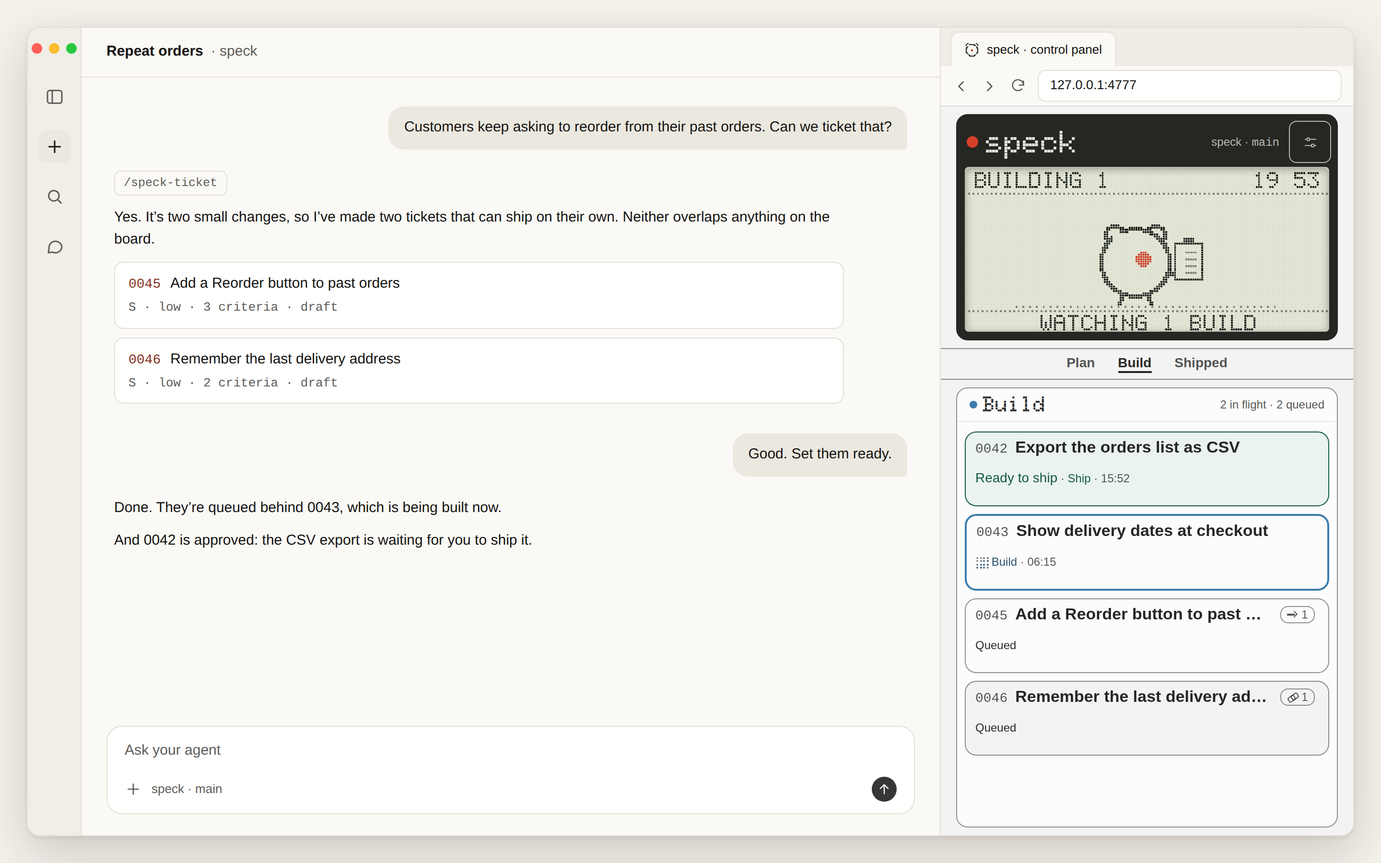
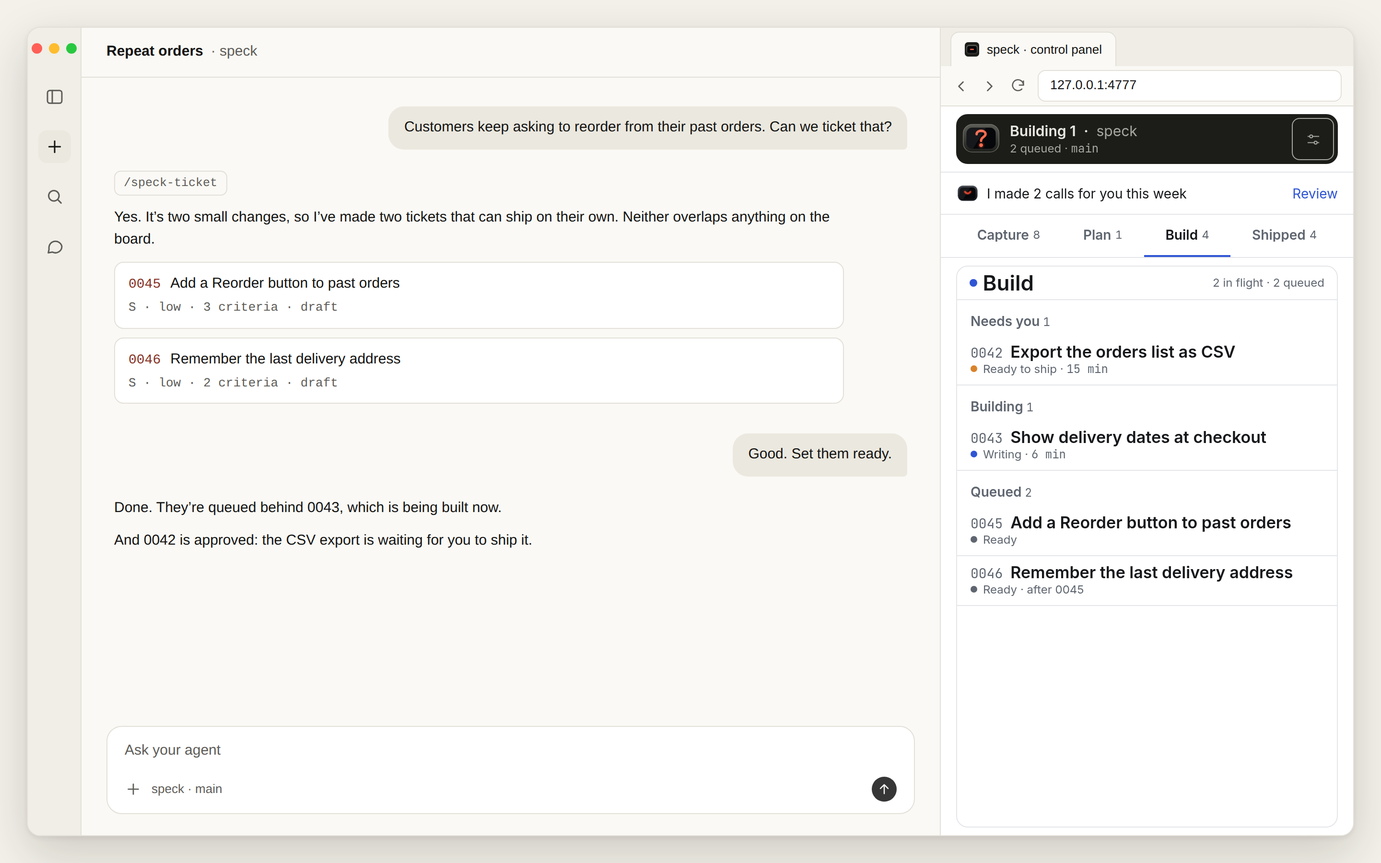
speck(0597): bring the docs and pictures up to date with the new panel

Changed region(s): [[0.6875, 0.1244, 0.9688, 0.7156], [0.6875, 0.7778, 0.9688, 0.8089], [0.6875, 0.0311, 0.7188, 0.0622]]

diff --git a/docs/brief.md b/docs/brief.md
@@ -212,7 +212,7 @@ In a project, `speck` stands for `node .speck/scripts/speck.mjs`, which `init` p
 | `speck split-off <id> "<title>" --from=<file>` | The build's step once `watch: fix` or `decide` has taken the size guard's split for ticket `<id>`: makes a `ready` ticket from the scope in the file (`## Problem`, `## Outcome`, `## Acceptance criteria` and, optionally, `## Out of scope`), with `after:` naming `<id>` and the original's risk, kind, size and priority, says in its Notes where it came from and why, and commits only it on the base branch, using a short-lived checkout of that branch when none has it, as when worktrees are off. It refuses any other ticket and a second split-off for the same ticket, making nothing. |
 | `speck answer <id> "<answer>"`, `speck dismiss <id>` | Your reply to speck's latest question about a ticket, as the panel's Answer and Dismiss buttons give it. An answer is noted in the ticket's Notes as `You answered speck`, committed as `speck(<id>): watch: answer`, and `speck run`'s next check carries it out: it ships an approved ticket `auto_ship` covers again, once, and otherwise resumes the build's own session with your answer, while the ticket is still as it was. An answer `speck run` couldn't carry out is refused. Dismissing notes `You dismissed speck's question`, committed as `speck(<id>): watch: dismiss`, and leaves the ticket as it is. Either clears the question. Each is kept in its own file in `speck/.cache/runs/`, named for the ticket and the time, made only when it isn't there, so a question is answered or dismissed once: a second try says it has already been dealt with. They refuse speck's agent itself, a question that no longer waits (its ticket has moved on, or speck has acted since) and a ticket speck hasn't asked about. The old `speck foreman answer` and `speck foreman dismiss` still work the same. |
 | `speck status [--json]` | Tickets by status, blocked first, after speck's status: what `speck run` is doing, why each ready ticket isn't building and what shipping is waiting for, as `speck run` records them in `speck/.cache/runs/`. `--json` gives everything, for programs such as the panel. |
-| `speck panel [--port <n>] [--url https://<hostname>] [--background]`, `speck panel --stop` | The control panel in your browser, at `http://127.0.0.1:4777`, and with `--url` at that one https address too, for reaching it through a private tunnel. It runs until Ctrl+C. With `--background` it starts on its own, detached from the terminal, so it keeps running after the shell that started it has ended: it prints the address once the panel answers there and writes the panel's output to `speck/.cache/panel.log`. If this repo's panel already answers on that port, it starts nothing and prints the addresses that panel serves, saying so when its `--url` differs from the one given. `speck panel --stop` stops the panel started that way, or every one when started on several ports (`--port <n>` for just one), or says none is running. The panel shows Capture (every idea and inbox note, newest captured first by the date on its `Captured:` line, and notes from the same day by the time after that date, latest first, each opening to its whole text, and each with a star: pressing it marks a note you like by adding a `Starred: yes` line straight after its `Captured:` line, or takes the mark off by removing that line, with no commit and without moving the note. The star is the only thing Capture changes, as notes are kept up in chat), Plan (only draft tickets, with Set ready and priority), Build (the queue, with Back to Plan on a ticket waiting there to make it a draft again, live logs, each with a Full log button that opens it in a pop-up like the Pipeline log's, showing only that ticket's build log, stop, which builds are paused, with the `speck play <id>` that carries each on, blocked questions, with a Go with the recommendation button on one whose build said what it recommends and was started by `speck run`, which asks first, records your choice and the time in the ticket's Notes, sets it building and has `speck run` resume the build's own session with it, an approved ticket's review pack, with a Ship button that asks first, then runs `speck ship <id>` and shows its message if it refuses, and "Shipping" with how long it has been running on a ticket being shipped from anywhere, or "Auto-ship didn't finish" with speck ship's message when a build's auto-ship ended without shipping) and Shipped (what's shipped, with times, review rounds, tokens and each ticket's review pack). The top of the panel is speck's LCD screen in its dark frame, which stays there while a lane's list scrolls. The frame's title row shows speck's name in its dot-matrix lettering, the project and base branch, cut short with an ellipsis when there isn't room and shown in full in their tooltip, and the Settings button. The screen's top row shows speck's status, `speck run`'s one status for the whole pipeline: Off, Idle, Building <n>, Shipping <id>, Waiting with its reason, or Needs you <n> for blocked tickets, when the frame's edge turns the needs-you colour. At its right is the time on your computer, `HH:MM` in the 24-hour clock, its colon blinking once a second, or staying still with reduced motion. Below it speck itself, the one watching, shows the pipeline, with a short caption under it: it plays an animation once when a ticket starts shipping, ships, is blocked, or is approved and waits for you to ship it, and when speck asks you something or starts looking into a ticket, one after another when several happen at once. While draft tickets are being written it sits at its laptop. Otherwise it follows its status word, and after 15 minutes of Idle it naps until something happens. Pressing the screen opens the Pipeline log pop-up, which shows `speck run`'s log and nothing else. When the panel is running newer code than the page shows, it says so above the log and offers to reload the page. The Settings view's Auto-build switch turns `speck run` on or off: on starts `speck run` in the background, writing its output to `speck/.cache/runs/run.log`, and it keeps running after the panel stops; off stops it as Ctrl+C does, leaving running builds to carry on. If `speck run` refuses to start, the panel shows its message. The Your engineering manager group under it has `speck_name` and `watch`, which can be changed there, `watch` being one of `off`, `tell` (the default), `fix` or `decide`. With `watch: fix`, each of `speck run`'s checks takes the recommendation of a blocked ticket whose question says that no option changes what you'd notice and that the recommendation is a clear winner, or, on a block by the size guard, whose recommendation is to split, as the Go with the recommendation button does, noting in the ticket's Notes that speck chose it, and resumes its build in the same check. It does so once per ticket: a ticket that blocks again, and any question with a fact unknown, waits for you. With `watch: decide`, speck does everything `fix` does, and each of those checks takes the recommendation of every blocked ticket whose question has one, whatever its "Changes what you'd notice" and "Clear winner" lines say, noting in the ticket's Notes that speck chose it as watch is decide, and resumes its build. A size guard's recommendation to raise the limit is still never taken. A ticket waits for you when its question has no recommendation, when its risk is high, or once speck has taken 3 recommendations for it. With `tell` or `off`, every blocked ticket waits for you, and with `off` speck's status doesn't count them under Needs you. With `fix` or `decide`, each blocked ticket's card says whether speck will take its recommendation, which then doesn't count under Needs you, or it's waiting for you, and a ticket whose build carries on with a recommendation says who went with it, speck or you with the button, the option and the time, until it's approved or no longer building or reviewing. `speck status` says when `watch` is `fix` or `decide` and lists the recommendations speck took in the last 24 hours. With `fix` or `decide`, `speck run` also starts speck's agent when a ship is refused for a reason it doesn't hand back to the build, or a build ends with its ticket neither approved nor blocked, at most one at a time and once per ticket for the same commits (the agent's own note commits don't count). While the agent's latest action on a ticket is a question you haven't answered or dismissed and the ticket's status hasn't changed, it doesn't start for that ticket again, even after new commits. Its brief names the ticket, what happened, the last lines of its log and what it may do; it follows the agent-only `speck-watch` skill and takes one action with `speck watch`. A build still running at more than twice the median build time of the last 20 shipped tickets, and for at least 20 minutes, gets the same once per build, unless it's paused: the agent's brief also gives how long it has run, the median and the machine's load average, and it can only make a draft fix ticket when the base branch is broken or tell you what it found. With `watch: tell`, `speck run` says so once in its log, with the same figures, and starts no agent. With `off` it does neither. The group also has `watch_agent`, `watch_model` and `watch_effort`, which can be changed there: the agent it runs on (`claude`, `codex` or `cursor`, blank for the builder when that's Codex or Cursor and Claude Code otherwise), its model and its effort, blank for the agent's own defaults. `speck status` lists what the agent is looking into, its questions for you, which count under Needs you until the ticket's status changes or you answer or dismiss them, and its last five actions with why. Each question shows on its ticket's card with an Answer box and Answer and Dismiss buttons, which do what `speck answer` and `speck dismiss` do and show the server's message if it refuses. The Settings button opens a view of the settings people tune in `speck/config.yml`, grouped, each with the value speck reads now and a plain explanation of what it does, which ends by saying what speck uses when it isn't set and where a change to it is saved: for your machine only, without a commit, or for the project in `speck/config.yml`, with a commit. It reads them afresh each time it opens. `builder_model`, `reviewer`, `reviewer_model`, `reviewer_effort`, `max_parallel_builds`, `max_parallel_tests`, `limits.max_acceptance_criteria`, `limits.max_changed_lines` and `limits.max_review_rounds` can be changed there. With `reviewer: codex`, `reviewer_model` is a list of the models `codex debug models` lists, read each time the view opens and leaving out those it hides, and `reviewer_effort` offers the efforts the chosen model supports. With `reviewer: claude` or `reviewer: claude-subagent`, `reviewer_model` is a list of `fable`, `opus`, `sonnet` and `haiku`, each saying it means the newest model of that kind, and `reviewer_effort` offers `low` to `max`. With `reviewer: cursor`, `reviewer_model` is a list of the models `agent models` lists, each with its display name, and `reviewer_effort` offers `low` to `max`. `builder_model` offers `fable`, `opus`, `sonnet` and `haiku` with `builder: claude`, the models `codex debug models` lists with `builder: codex`, and a box to type in for any other builder. `watch_model` offers the models of the agent speck runs on in the same way: `fable`, `opus`, `sonnet` and `haiku` for `claude`, the models `codex debug models` lists for `codex` and those `agent models` lists for `cursor`, or a box to type in, with one line saying why, when they can't be read. A saved model or effort that isn't in the list still shows, marked "not offered". Choosing another agent for the reviewer, the builder or speck offers its models straight away, before you save: the model setting says in one line while they're being read, and becomes a box to type in, saying why, when they can't be. A model already chosen that the new list doesn't offer still shows, marked "not offered". When Codex or Cursor can't list its models (it isn't installed or signed in, or the command fails or takes more than 10 seconds), and for any other reviewer, `reviewer_model` is a box to type in and `reviewer_effort` offers `low` to `max`, with one line saying why there's no list. One Save button, kept at the bottom of the view however far it's scrolled, saves every setting you've changed at once, and can be pressed only while a value differs from the saved one. It checks each value as `speck config set` does, and that a reviewer is one speck knows and, when it's from the builder's own family, runs a different model from `builder_model` unless `allow_same_model_review` is true. Your own settings are saved for this machine, as `speck config set --machine` saves them, committing nothing, so they're saved even off the base branch or with `speck/config.yml` changed. It refuses changes to the rest while the panel's checkout isn't on the base branch or `speck/config.yml` has uncommitted changes, and otherwise rewrites only those settings' lines and commits only `speck/config.yml` on the base branch, in one commit. If any change is refused, nothing is saved: the view says which setting was refused and why, keeping your changes so you can fix them. After a save it shows the values as speck now reads them. Closing the view with changes not saved, with its Close button, Escape or a click outside it, first asks whether to save them, discard them or keep editing. So can `auto_ship`, on or off, and `auto_ship_risk`, with a box to tick for each risk. A change that lets more tickets ship by themselves (turning `auto_ship` on, or adding a risk while it's on) first opens a dialog on Save naming which approved tickets would then merge and push to the base branch without waiting for you, and nothing is saved unless you confirm. Turning it off or removing a risk needs no dialog, and unticking every risk is refused, saying to turn `auto_ship` off instead. When this machine has its own value for one of your own settings, its explanation says so, shows the project's value and offers to clear this machine's, on Save, after which the project's applies again. The rest stay read-only. To use it from a phone, put it behind a private tunnel that makes you log in, such as `tailscale serve` or Cloudflare Tunnel with Cloudflare Access, and start it with `speck panel --url https://<hostname>`, that tunnel's address. Never expose it openly: anyone who can load the page can start builds and ship. It can be added to a phone's home screen as an app called speck, which opens full screen. It restarts itself when its code changes. |
+| `speck panel [--port <n>] [--url https://<hostname>] [--background]`, `speck panel --stop` | The control panel in your browser, at `http://127.0.0.1:4777`, and with `--url` at that one https address too, for reaching it through a private tunnel. It runs until Ctrl+C. With `--background` it starts on its own, detached from the terminal, so it keeps running after the shell that started it has ended: it prints the address once the panel answers there and writes the panel's output to `speck/.cache/panel.log`. If this repo's panel already answers on that port, it starts nothing and prints the addresses that panel serves, saying so when its `--url` differs from the one given. `speck panel --stop` stops the panel started that way, or every one when started on several ports (`--port <n>` for just one), or says none is running. The panel shows Capture (every idea and inbox note, newest captured first by the date on its `Captured:` line, and notes from the same day by the time after that date, latest first, each a compact row with its title, a line saying where it came from and when, and a star. Pressing the row opens its whole text, and pressing the star marks a note you like by adding a `Starred: yes` line straight after its `Captured:` line, or takes the mark off by removing that line, with no commit and without moving the note. The star is the only thing Capture changes, as notes are kept up in chat), Plan (only draft tickets, each a compact row with its id, its title and a line with its priority, size and risk, and with Set ready and priority on the row), Build (the queue, as compact rows under Needs you, Building and Queued, each group with its count and left out when empty, and each row its id, its title and one line saying where it is, with a small dot: orange when it needs you, blue while it's worked on and grey while it waits) and Shipped (three tiles up top, the median build time, the median number of review rounds and the share approved in the first round, then a compact row for each shipped ticket with when it shipped, its review rounds and how long it took, and More stats for the other figures, costs included). An empty Capture or Plan shows speck asleep with one line saying what lands there. The lanes are four tabs under the bar, each with its count, the open one underlined in the accent colour; pressing a tab, swiping, the trackpad and the arrow keys change lane. Pressing a row in Build or Shipped opens the ticket's full view, a pane over the lanes: a back link, its id, a status pill and its title, then a track of four bars, Ready, Built, Reviewed and Ship, its facts in two columns (priority, size, risk, whether it ships by itself and why not, and the builder and reviewer with their models), its outcome, its acceptance criteria with a tick on each one the reviewer passed, and rows that open its review pack and build log. A ticket whose criteria changed since it was set ready has a callout there with speck sheepish, saying what each was and is now and that it won't ship by itself. The full view also holds what a build needs: Back to Plan on a ticket waiting in the queue to make it a draft again, the live log, with a Full log button that opens it in a pop-up showing only that ticket's build log, where it is and for how long, Stop, whether it's paused, with the `speck play <id>` that carries it on, a blocked question, with a Go with the recommendation button on one whose build said what it recommends and was started by `speck run`, which asks first, records your choice and the time in the ticket's Notes, sets it building and has `speck run` resume the build's own session with it, and "Auto-ship didn't finish" with speck ship's message when a build's auto-ship ended without shipping. A ticket being shipped from anywhere says "Shipping" with how long it has been running. An approved ticket's full view ends in a bar fixed to the bottom with Ask for changes and, in the accent colour, a Ship button that asks first, then runs `speck ship <id>` and shows its message if it refuses; its review pack has the same two. The top of the panel is the black bar with speck, which stays there while a lane's list scrolls. speck's face is on the left, in the pipeline's mood: asleep while `speck run` is off, asking while anything needs you, focused while something is being worked on and otherwise watching, and pleased for a few seconds after a ticket ships or speck takes a recommendation. Beside it the first line has speck's status, `speck run`'s one status for the whole pipeline: Off, Idle, Building <n>, Shipping <id>, Waiting with its reason, or Needs you <n> for blocked tickets, when the bar's edge turns the needs-you colour, then the project. The second line has how many tickets are queued, how many need you and the base branch. The project and base branch are cut short with an ellipsis when there isn't room and shown in full in their tooltips. The Settings button is at the right of the bar. While speck has made a call for you in the last 7 days, a line under the bar shows speck pleased and says how many, with Review, which opens Decided for you: speck's report, opening with speck beside a short speech bubble, then each call under Today and Earlier with its ticket, the question, Went with and the option, Not chosen and the others, and when. One that changed a criterion shows speck sheepish, saying so and that the ticket waits for you at Ship, and Change opens the review pack of a ticket still waiting to ship. Pressing the bar opens the Pipeline log, a full view of `speck run`'s log and nothing else: a back link, the heading, a line with speck in its mood saying whether `speck run` is on, since when and how many build slots are in use, then filters, Everything, Decisions, Ships and Builds, and a row for each line, its time in the mono font, its text, and its details such as its log file or agent under it. The engineering manager's own lines carry speck's face. With two or more speck panels running on this machine, the bar also has the project menu and All projects, which opens the bridge, every project at once: speck in the busiest mood among them, how many are building in all, how many projects are busy and how many things need you, three tiles (shipped this week, the median build time and the spend this week, across all projects), a card under Needs you for each thing that needs you, with its project, ticket id, title and a one-line reason, which opens that ticket in its own project's panel, and a row under Projects for each project, with a dot for its state, its name, what it's doing and what needs you, and its spend this week, which switches to that project. A project whose panel doesn't answer stays listed as Not answering and counts for nothing in the figures. When the panel is running newer code than the page shows, the bar's word becomes Reload page, and the Pipeline log says so above the log and offers to reload the page. The Settings view's Auto-build switch turns `speck run` on or off: on starts `speck run` in the background, writing its output to `speck/.cache/runs/run.log`, and it keeps running after the panel stops; off stops it as Ctrl+C does, leaving running builds to carry on. If `speck run` refuses to start, the panel shows its message. The Your engineering manager group under it has `speck_name` and `watch`, which can be changed there, `watch` being one of `off`, `tell` (the default), `fix` or `decide`. With `watch: fix`, each of `speck run`'s checks takes the recommendation of a blocked ticket whose question says that no option changes what you'd notice and that the recommendation is a clear winner, or, on a block by the size guard, whose recommendation is to split, as the Go with the recommendation button does, noting in the ticket's Notes that speck chose it, and resumes its build in the same check. It does so once per ticket: a ticket that blocks again, and any question with a fact unknown, waits for you. With `watch: decide`, speck does everything `fix` does, and each of those checks takes the recommendation of every blocked ticket whose question has one, whatever its "Changes what you'd notice" and "Clear winner" lines say, noting in the ticket's Notes that speck chose it as watch is decide, and resumes its build. A size guard's recommendation to raise the limit is still never taken. A ticket waits for you when its question has no recommendation, when its risk is high, or once speck has taken 3 recommendations for it. With `tell` or `off`, every blocked ticket waits for you, and with `off` speck's status doesn't count them under Needs you. With `fix` or `decide`, each blocked ticket's full view says whether speck will take its recommendation, which then doesn't count under Needs you, or it's waiting for you, and a ticket whose build carries on with a recommendation says who went with it, speck or you with the button, the option and the time, until it's approved or no longer building or reviewing. `speck status` says when `watch` is `fix` or `decide` and lists the recommendations speck took in the last 24 hours. With `fix` or `decide`, `speck run` also starts speck's agent when a ship is refused for a reason it doesn't hand back to the build, or a build ends with its ticket neither approved nor blocked, at most one at a time and once per ticket for the same commits (the agent's own note commits don't count). While the agent's latest action on a ticket is a question you haven't answered or dismissed and the ticket's status hasn't changed, it doesn't start for that ticket again, even after new commits. Its brief names the ticket, what happened, the last lines of its log and what it may do; it follows the agent-only `speck-watch` skill and takes one action with `speck watch`. A build still running at more than twice the median build time of the last 20 shipped tickets, and for at least 20 minutes, gets the same once per build, unless it's paused: the agent's brief also gives how long it has run, the median and the machine's load average, and it can only make a draft fix ticket when the base branch is broken or tell you what it found. With `watch: tell`, `speck run` says so once in its log, with the same figures, and starts no agent. With `off` it does neither. The group also has `watch_agent`, `watch_model` and `watch_effort`, which can be changed there: the agent it runs on (`claude`, `codex` or `cursor`, blank for the builder when that's Codex or Cursor and Claude Code otherwise), its model and its effort, blank for the agent's own defaults. `speck status` lists what the agent is looking into, its questions for you, which count under Needs you until the ticket's status changes or you answer or dismiss them, and its last five actions with why. Each question shows in its ticket's full view with an Answer box and Answer and Dismiss buttons, which do what `speck answer` and `speck dismiss` do and show the server's message if it refuses. The Settings button opens a view of the settings people tune in `speck/config.yml`, in plain sections, each with a heading and a divider and no card borders, with speck's face, watching, beside `speck_name`, and each setting a row with the value speck reads now and a plain explanation of what it does, which ends by saying what speck uses when it isn't set and where a change to it is saved: for your machine only, without a commit, or for the project in `speck/config.yml`, with a commit. It reads them afresh each time it opens. `builder_model`, `reviewer`, `reviewer_model`, `reviewer_effort`, `max_parallel_builds`, `max_parallel_tests`, `limits.max_acceptance_criteria`, `limits.max_changed_lines` and `limits.max_review_rounds` can be changed there. With `reviewer: codex`, `reviewer_model` is a list of the models `codex debug models` lists, read each time the view opens and leaving out those it hides, and `reviewer_effort` offers the efforts the chosen model supports. With `reviewer: claude` or `reviewer: claude-subagent`, `reviewer_model` is a list of `fable`, `opus`, `sonnet` and `haiku`, each saying it means the newest model of that kind, and `reviewer_effort` offers `low` to `max`. With `reviewer: cursor`, `reviewer_model` is a list of the models `agent models` lists, each with its display name, and `reviewer_effort` offers `low` to `max`. `builder_model` offers `fable`, `opus`, `sonnet` and `haiku` with `builder: claude`, the models `codex debug models` lists with `builder: codex`, and a box to type in for any other builder. `watch_model` offers the models of the agent speck runs on in the same way: `fable`, `opus`, `sonnet` and `haiku` for `claude`, the models `codex debug models` lists for `codex` and those `agent models` lists for `cursor`, or a box to type in, with one line saying why, when they can't be read. A saved model or effort that isn't in the list still shows, marked "not offered". Choosing another agent for the reviewer, the builder or speck offers its models straight away, before you save: the model setting says in one line while they're being read, and becomes a box to type in, saying why, when they can't be. A model already chosen that the new list doesn't offer still shows, marked "not offered". When Codex or Cursor can't list its models (it isn't installed or signed in, or the command fails or takes more than 10 seconds), and for any other reviewer, `reviewer_model` is a box to type in and `reviewer_effort` offers `low` to `max`, with one line saying why there's no list. One Save button in the accent colour, kept at the bottom of the view however far it's scrolled, saves every setting you've changed at once, and can be pressed only while a value differs from the saved one. It checks each value as `speck config set` does, and that a reviewer is one speck knows and, when it's from the builder's own family, runs a different model from `builder_model` unless `allow_same_model_review` is true. Your own settings are saved for this machine, as `speck config set --machine` saves them, committing nothing, so they're saved even off the base branch or with `speck/config.yml` changed. It refuses changes to the rest while the panel's checkout isn't on the base branch or `speck/config.yml` has uncommitted changes, and otherwise rewrites only those settings' lines and commits only `speck/config.yml` on the base branch, in one commit. If any change is refused, nothing is saved: the view says which setting was refused and why, keeping your changes so you can fix them. After a save it shows the values as speck now reads them. Closing the view with changes not saved, with its Close button, Escape or a click outside it, first asks whether to save them, discard them or keep editing. So can `auto_ship`, on or off, and `auto_ship_risk`, with a box to tick for each risk. A change that lets more tickets ship by themselves (turning `auto_ship` on, or adding a risk while it's on) first opens a dialog on Save naming which approved tickets would then merge and push to the base branch without waiting for you, and nothing is saved unless you confirm. Turning it off or removing a risk needs no dialog, and unticking every risk is refused, saying to turn `auto_ship` off instead. When this machine has its own value for one of your own settings, its explanation says so, shows the project's value and offers to clear this machine's, on Save, after which the project's applies again. The rest stay read-only. To use it from a phone, put it behind a private tunnel that makes you log in, such as `tailscale serve` or Cloudflare Tunnel with Cloudflare Access, and start it with `speck panel --url https://<hostname>`, that tunnel's address. Never expose it openly: anyone who can load the page can start builds and ship. It can be added to a phone's home screen as an app called speck, which opens full screen. It restarts itself when its code changes. |
 | `speck run` | Watches for ready tickets committed on the base branch and starts `build_command` for each in turn, highest priority first, skipping any whose `after:` tickets haven't shipped. `max_parallel_builds` sets how many it keeps going at once, 1 unless you change it (see principle 7). A build that was killed is resumed once. A build it didn't start, such as `/speck-build` in a conversation or a build resumed by hand, counts too, and is shown and watched as its own: the speck commands every build runs, such as `speck start`, `speck next` and `speck diffstat`, write the build's own process into the ticket's run record, and a build resumed by hand is also found by the session its command line names. It stops counting once its ticket is no longer `building` or `reviewing`, even if its conversation carries on. A build whose command starts Claude Code (its first word is `claude`, or a path ending in `/claude`) gets `CLAUDE_CODE_DISABLE_BACKGROUND_TASKS=1`, unless `speck run`'s own environment already sets it, so it can't run commands in the background: a builder that ends its turn while a test run or review round is still running in the background ends the build partway, leaving its ticket `building` or `reviewing`. When a build ends, it records the builder's tokens and cost from its log: Claude Code's `stream-json`, Codex's `--json` or Cursor's `stream-json`. A Claude Code build's tokens come from the `modelUsage` of its log's last `result` line, which already includes the sub-agents the build started with the Agent tool. A Codex build's tokens include the sub-agents it started, and the sub-agents they started in turn, each read from its own session file in `~/.codex/sessions/` (or `$CODEX_HOME/sessions/`). It also records the model or models the build ran on, each with its tokens (uncached input, cached input, cache writes and output) and its cost. Codex and Cursor don't report a cost, so theirs is priced from the price table at the model the build's command gives (`-m` for Codex, or else the one its session file records, and `--model` for Cursor), and each Codex sub-agent at the model its own session file records. The build's cost is left unknown rather than $0 when any of those models has no rates, such as Cursor's `auto`. `speck status --json` gives the sum of a ticket's known build costs as its `builder_cost_usd`, and each model its builds ran on, with its tokens and its cost or null, in `builder_models`. It keeps what each run of speck's agent spends the same way, read from the agent's log when the run ends, in `speck/.cache/runs/run.watch-spend.jsonl`, and `speck status --json` gives the sums over a ticket's runs as its `watch_tokens` and `watch_cost_usd`, null for a ticket the agent never looked into. When a build ends, it also counts each Codex session started in the ticket's worktree, however it was started, for example by a Claude Code builder running `codex exec` itself: each session in `~/.codex/sessions/` (or `$CODEX_HOME/sessions/`) whose `cwd` is the worktree or a folder inside it, with the sub-agents it started, counted and priced as a Codex build's are. Each session counts once, and one already counted as the ticket's build, review round or watch agent run, or a sub-agent of one, isn't counted again. It keeps them in `speck/.cache/runs/run.delegated-spend.jsonl`, and `speck status --json` gives their sums as the ticket's `delegated_tokens` and `delegated_cost_usd`, null for a ticket with none. A ticket built with `worktrees` off has no worktree, so none is counted. Its `total_cost_usd` adds the ticket's known builder, reviewer, watch agent and delegated costs, null when none is known, and its `total_tokens` adds their tokens, each round's as it saved them. Its `total_cost_unknown` names each part (`builder`, `reviewer`, `watch` or `delegated`) with a build, round or run that has tokens but no known cost, which the total leaves out, so the panel shows that total as "at least" it. When its own code changes, for example when a ship changes speck itself, it switches to its new code once no ship it started is running, without waiting for builds: while a ship runs, it says once which one it's waiting for and starts no other ship, though new builds may still start. It then carries on in the same terminal or `run.log` on the new code, still on in the panel and still stopped by Ctrl+C. Builds that were running carry on through the switch, without being stopped or started again: the new code counts them towards `max_parallel_builds`, shows them as building and watches each until it ends, then handles its end as it does that of any build it watches but didn't start: a ticket left approved goes to the ship queue, and one left building or reviewing is treated as a build that stopped partway. If the new code can't start, it says why once and carries on with the code it has until the next change. With `--background`, it turns `speck run` on in its own process, as the panel's switch does, with its output added to `speck/.cache/runs/run.log`, and returns once it's watching, printing one line that says it's on. If `speck run` is already running in the repo, it starts nothing and says so; if `speck run` refuses or stops before it's watching, it prints `speck run`'s own message and exits with a non-zero code, leaving nothing running. |
 | `speck pause <id>` / `speck play <id>` / `speck stop <id>` | Hold a build `speck run` started, with every process it started, carry it on, or end it for good and block its ticket, keeping its branch and work. A build stopped before it ran `speck start` has no branch: its ticket is blocked where it is, and `speck start <id>` starts a blocked ticket with no branch as it would a ready one, so `/speck-build <id>` starts it again. Time a build spends paused, like time its ticket spends blocked, is added to the ticket's `waited_seconds` and left out of its build time in the panel. macOS and Linux only. So is the time a build that stopped before finishing leaves its ticket building or reviewing: its timer stops at the build's exit, or at when speck first noticed a killed build had gone, and the stretch until `speck run` resumes it or `speck start <id>` is run for it again is added. So is time the machine spends asleep while `speck run` is on, for each ticket whose build was in hand all through it, rather than blocked, paused, stopped or approved: it's added once, at `speck run`'s first check after waking, measured on Linux from how far the wall clock ran ahead of Node's monotonic clock, which stops while the machine sleeps, and on macOS from the last sleep and wake times macOS records. |
 | `speck pack <id> [--plain]` | Prints the review pack. When a ticket's acceptance criteria aren't the ones it was set ready with, the pack has a Criteria changed part above them, and `--plain` the same part below them, giving each criterion changed, added or removed with the text it was set ready with and the text now. `--plain` prints a short one in plain English for someone who doesn't read code: whether the reviewer approved it, the ticket's Outcome and `## In plain words`, each acceptance criterion with its result, a closer-look warning for a high-risk ticket or a change to sensitive files, and a note when the reviewer could see only the change, not the rest of the code, in any round. The full pack lists any pictures the build took of a visual change, each with what it shows and its file. For a task, it lists each file in the ticket's output folder, with its path from the project root, straight after the summary, starting with the `summary.md` the build writes at the folder's top, when there is one. The panel's review pack opens with a button for each of those files, above Ship, named from inside the output folder, with its path from the project root as its tooltip. Each folder directly inside the output folder is one button, folded at first, saying how many files it holds however deep, which unfolds to a button for each of them when pressed. When the task has a `summary.md` at its folder's top, in any case, its button comes first, labelled Start here, with Ship straight after it and the other files below Ship. A Markdown file shows formatted in a pop-up over the whole panel, which Close or Escape closes, back to the pack, and any other file opens in a new tab. The panel serves only files inside that folder. |

diff --git a/README.md b/README.md
@@ -12,7 +12,7 @@ You don't need to read the code to check the work. Every ticket comes with a one
 
 <picture>
   <source media="(prefers-color-scheme: dark)" srcset="docs/images/demo-dark.png">
-  <img alt="An agent conversation on the left, with speck's panel open beside it in a narrow browser pane on the right. The panel's screen shows one ticket building, and its Build lane is open: one ticket approved and ready to ship, one being built and two queued." src="docs/images/demo-light.png">
+  <img alt="An agent conversation on the left, with speck's panel open beside it in a narrow browser pane on the right. The panel's black bar shows speck and one ticket building, a line under it says speck made two calls this week, and its Build tab is open with compact rows: one ticket that needs you, ready to ship, one being built and two queued." src="docs/images/demo-light.png">
 </picture>
 
 Use the agents you already have: Claude Code, Codex or Cursor, or a model provider you have an API key for, such as DeepSeek. speck doesn't let a model review its own work unless you allow it.
@@ -60,7 +60,7 @@ Once you trust the work, turn on auto-ship, in the panel's Settings or with `spe
 - **speck files its own follow-ups.** When a build spots a bug or a better idea, speck has it save the idea to your inbox, after checking it isn't there already.
 - **Ideas only become tickets in conversation.** Your agent saves an idea when you ask it to, and turns it into tickets only when you talk it through.
 - **speck asks, then moves on.** When a build needs your call, speck has it stop with one plain question and its recommendation, and carries on with the next ticket.
-- **speck shows where everything stands at a glance.** The panel's screen says what speck is doing in a word or two, such as Building, Shipping or Needs you.
+- **speck shows where everything stands at a glance.** The panel's black bar says what speck is doing in a word or two, such as Building, Shipping or Needs you.
 - **speck looks into stops it has no steps for.** With `watch: fix`, when a build or a ship stops for a reason speck doesn't expect, speck has its own agent look into it and do one thing about it, or ask you.
 - **speck sorts out its own merge conflicts.** When `main` has moved on, speck has the build merge it in, keep what both sides meant and have the merge reviewed again.
 - **speck fits in your pocket.** Put the panel behind a private tunnel and add it to your phone's home screen (see [The panel](#the-panel)).
@@ -90,9 +90,12 @@ Inspired by [OpenSpec](https://github.com/Fission-AI/OpenSpec), with less ceremo
 
 The panel is a phone-width column you keep beside your agent, or open on your phone. Start it with `node .speck/scripts/speck.mjs panel`, at `http://127.0.0.1:4777`. The panel runs on your machine and reads the files in your repo.
 
-- **speck's screen**, at the top, says what's happening: Building, Shipping, Idle, or Needs you when a ticket is waiting on your answer. Press it for the detail.
-- **Capture, Plan, Build and Shipped** are cards you swipe between. Capture lists your ideas and inbox notes to read. Plan has your draft tickets. Build has the queue, each build's log, blocked questions and approved tickets' review packs with their Ship button. Shipped shows what's shipped and what it took.
-- **Settings**, from the button in the header, turns `speck run` on and off, picks your builder and reviewer, and holds the settings people tune.
+- **The black bar**, at the top, shows speck and what's happening: Building, Shipping, Idle, or Needs you when a ticket is waiting on you. Press it for the Pipeline log, which you can filter to decisions, ships or builds.
+- **Capture, Plan, Build and Shipped** are tabs you press or swipe between, each a list of compact rows. Capture lists your ideas and inbox notes to read. Plan has your draft tickets. Build groups the queue under Needs you, Building and Queued. Shipped opens with three figures, then what's shipped and what it took.
+- **A ticket's full view** opens when you press its row in Build or Shipped: how far it has got, what it should do, its log, any question for you, its review pack, and its Ship button once it's approved.
+- **Decided for you**, from a line under the bar, is speck's report of the calls it made for you this week, with what it didn't choose. Change any you'd have called differently.
+- **All projects** appears in the bar once two or more projects' panels are running. It opens the bridge: what needs you and how each project is doing, across all of them.
+- **Settings**, from the button in the bar, turns `speck run` on and off, picks your builder and reviewer, and holds the settings people tune.
 
 To use it from your phone, put it behind a private tunnel that makes you log in, such as `tailscale serve` or Cloudflare Tunnel with Cloudflare Access, and start it with `node .speck/scripts/speck.mjs panel --url https://<hostname>`. Add it to your home screen to open it as an app. Never expose it openly: anyone who can load the page can start builds and ship.
 

diff --git a/speck/tickets/0597-update-the-docs-and-pictures-for-the-new-panel.md b/speck/tickets/0597-update-the-docs-and-pictures-for-the-new-panel.md
@@ -43,6 +43,8 @@ The docs and the README's pictures describe and show the redesigned panel.
 - The `speck panel` row is one table row of several thousand characters at about line 203 of `docs/brief.md`; it may be split into a section of its own if that reads better.
 - Relies on nothing outside this repo.
 - Failing before this build: none
+- Pictures taken from a copy of the demo outside the repo (as 0456's), its server updated to serve the panel's Inter and JetBrains Mono fonts and the new page's fields, with a made-up board: a 430 px pane at 2×, 1440 × 900.
+- Self-check: named `speck_name` in the Settings sentence instead of "its name setting"; checked each claim in the row against the page's scripts.
 
 ## In plain words
 <!-- Filled in by the builder before approval: the change for someone who doesn't read code. -->
